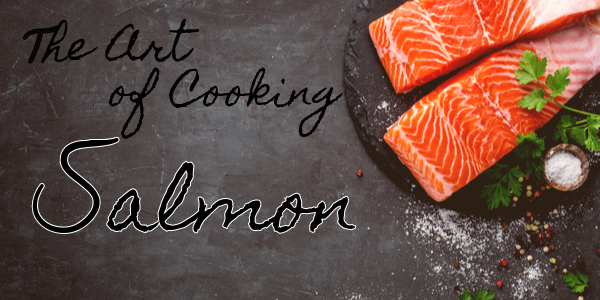
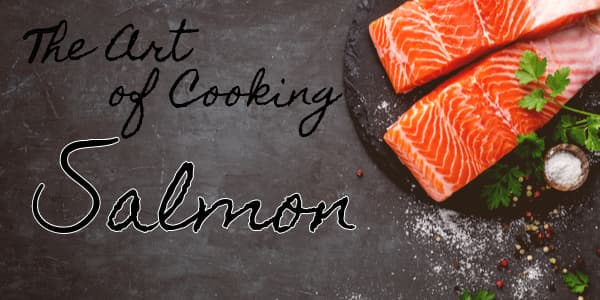
optimized some images and created readme file

diff --git a/src/index.html b/src/index.html
@@ -12,12 +12,12 @@
   <meta name="og:url" content="https://theartofcookingsalmon.com/"/>
   <meta name="og:title" content="Salmon"/>
   <meta name="og:description" content="The Art of Cooking Salmon - Praise this beautiful &amp; tasty fish!"/>
-  <meta name="og:image" content="https://theartofcookingsalmon.com/assets/salmon-bg-with-text.jpg"/>
+  <meta name="og:image" content="https://theartofcookingsalmon.com/assets/salmon-outline.jpg"/>
 
   <!-- Twitter -->
   <meta name="twitter:title" content="Salmon">
   <meta name="twitter:description" content="The Art of Cooking Salmon - Praise this beautiful &amp; tasty fish!">
-  <meta name="twitter:image" content="https://theartofcookingsalmon.com/assets/salmon-bg-with-text.jpg">
+  <meta name="twitter:image" content="https://theartofcookingsalmon.com/assets/salmon-outline.jpg">
   <meta name="twitter:card" content="summary_large_image">
 
   <meta name="color-scheme" content="light dark"/>

diff --git a/src/app/services/seo.service.ts b/src/app/services/seo.service.ts
@@ -8,7 +8,7 @@ export class SEOService {
   default: any = {
     title: 'Salmon',
     description: 'The Art of Cooking Salmon - Praise this beautiful & tasty fish!',
-    imageUrl: 'https://theartofcookingsalmon.com/assets/salmon-bg-with-text.jpg',
+    imageUrl: 'https://theartofcookingsalmon.com/assets/salmon-outline.jpg',
     url: 'https://theartofcookingsalmon.com'
   };
 

diff --git a/README.md b/README.md
@@ -1,0 +1,20 @@
+# The Art of Cooking Salmon
+
+Ionic, Capacitor, Angular, & Firebase
+
+![](https://www.theartofcookingsalmon.com/assets/salmon-outline.jpg)
+
+## Share Your Salmon!
+
+- Use your profile as an archive to see your salmon at any time
+- See what other salmon lovers are cookin up and save your favorite posts
+- Learn about the fish by reading the informative content and fun facts
+- Enjoy a sleek UI with dark mode
+
+### Key Features
+
+- Google & Apple Sign In with editable user profile & avatar
+- Client-side image compression with preview & re-ordering in posts
+- Beautiful theming and Images with tabs and sidemenu navigation
+- SEO friendly
+- Implemented NoSQL data modeling techniques to optimize for reads and store recent and favorite posts on the user document
